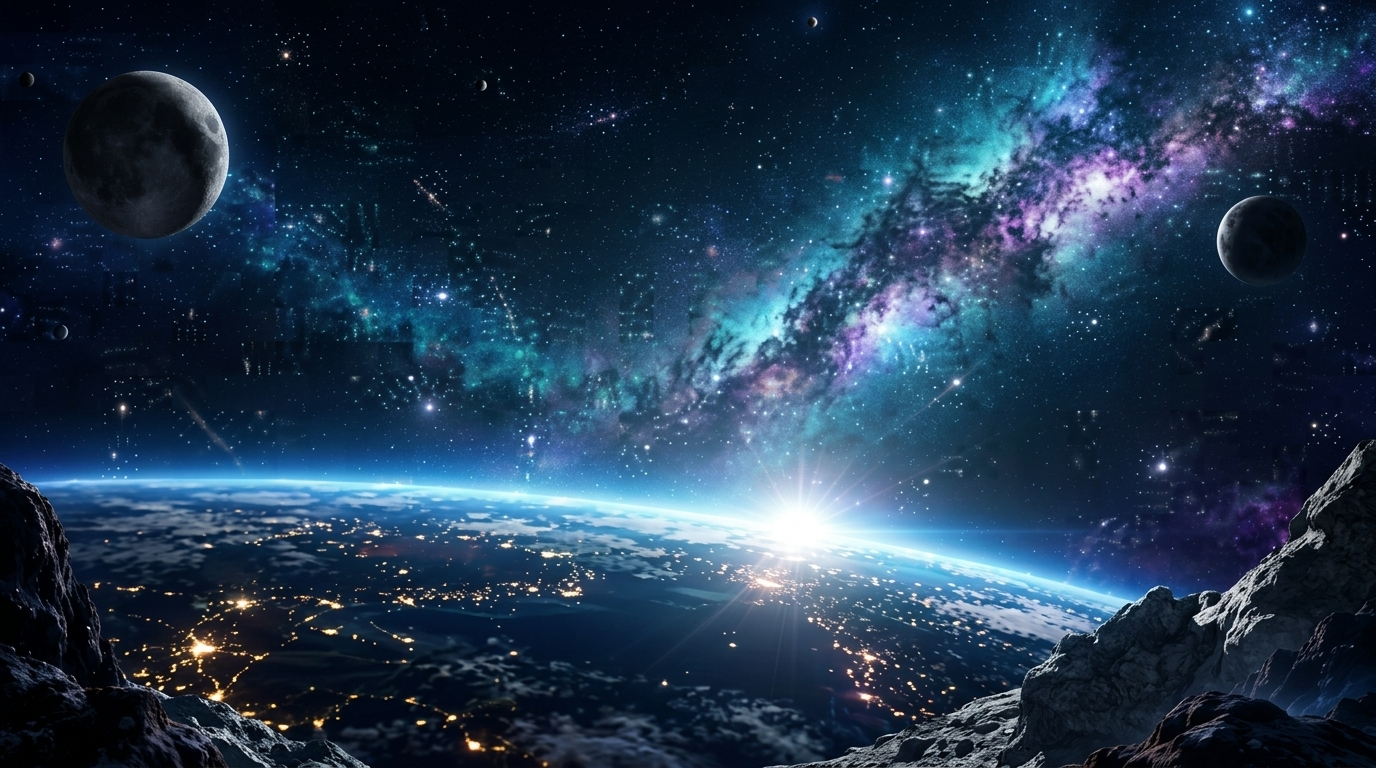
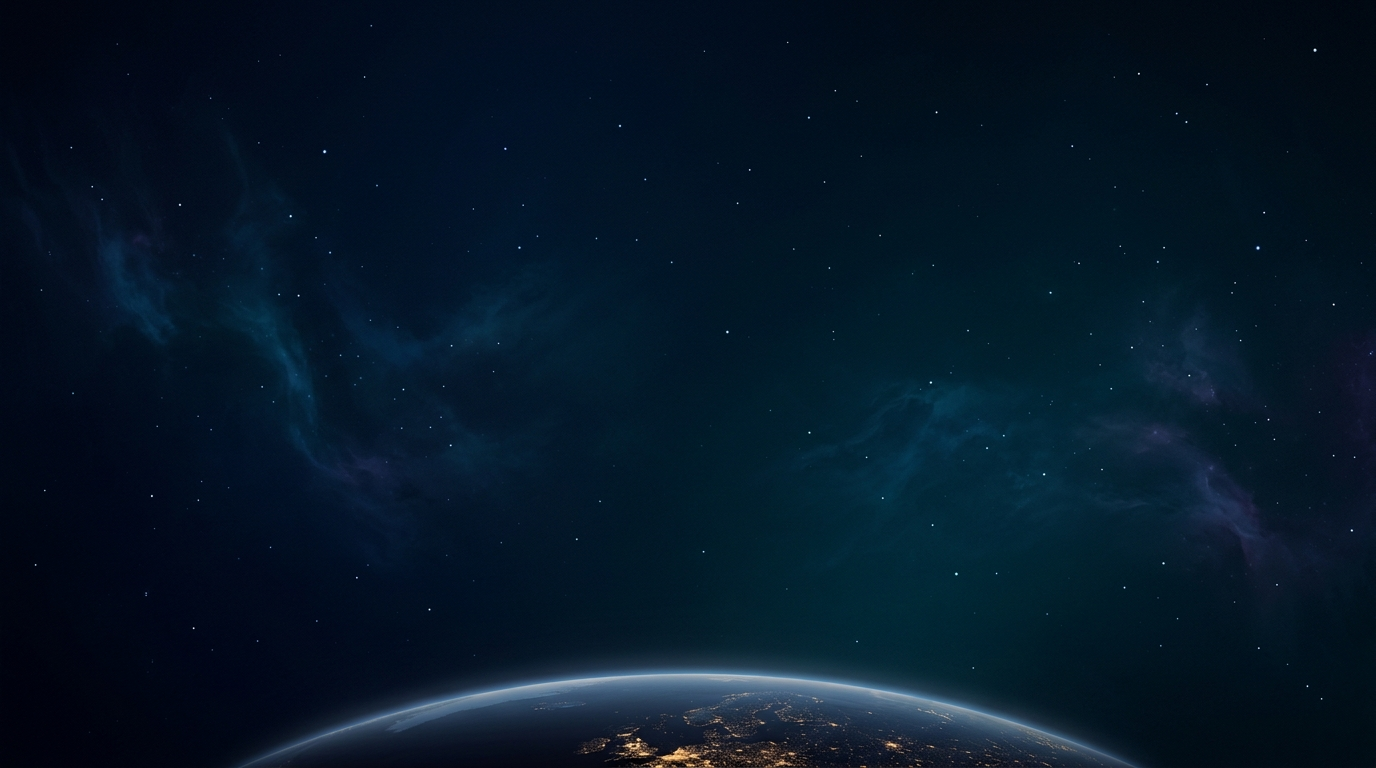
fix: restore model texture and retain cursor fixes

diff --git a/public/knowledge_globe.html b/public/knowledge_globe.html
@@ -16,12 +16,12 @@ html,body{height:100%;margin:0;background:transparent;overflow:hidden;font-famil
 #ui,#lines{position:absolute;inset:0;width:100%;height:100%;pointer-events:none}
 #lines path{fill:none;stroke-width:1.2;stroke-opacity:.5;transition:stroke-opacity .25s,stroke-width .25s}
 #lines circle{filter:drop-shadow(0 0 5px currentColor)}
-.a{position:absolute;transform:translate(-50%,-50%);opacity:0;transition:opacity .9s ease var(--d,0s)}.on .a{opacity:1}
+.a{position:absolute;transform:translate(-50%,-50%);opacity:0;transition:opacity .9s ease var(--d,0s);pointer-events:none}.on .a{opacity:1}
 .f{animation:fl 7s ease-in-out infinite}@keyframes fl{50%{transform:translateY(-4px)}}
 .pill,.card{pointer-events:auto;cursor:pointer;transition:transform .3s cubic-bezier(.2,.8,.2,1),box-shadow .3s,border-color .3s}
 .pill{display:flex;align-items:center;gap:6px;height:28px;padding:0 12px 0 10px;border-radius:999px;border:1px solid color-mix(in srgb,var(--c) 75%,transparent);background:linear-gradient(180deg,rgba(18,28,62,.82),rgba(7,12,32,.88));backdrop-filter:blur(10px);font-weight:600;font-size:10px;letter-spacing:.06em;text-transform:uppercase;white-space:nowrap;box-shadow:inset 0 1px 0 rgba(255,255,255,.08),0 8px 24px rgba(0,0,0,.45),0 0 22px color-mix(in srgb,var(--c) 30%,transparent)}
 .pill svg{width:14px;height:14px;fill:none;stroke:var(--c);stroke-width:1.8;stroke-linecap:round;stroke-linejoin:round;flex:none}
-.pill:hover{transform:translateY(-2px) scale(1.05);box-shadow:inset 0 1px 0 rgba(255,255,255,.12),0 10px 30px rgba(0,0,0,.5),0 0 34px color-mix(in srgb,var(--c) 60%,transparent)}
+.pill:hover{transform:scale(1.05);box-shadow:inset 0 1px 0 rgba(255,255,255,.12),0 10px 30px rgba(0,0,0,.5),0 0 34px color-mix(in srgb,var(--c) 60%,transparent)}
 .cnt{display:flex;align-items:center;justify-content:center;gap:7px;margin-top:7px;font:500 13px var(--mono);color:#c4d7f5}
 .cnt b{width:7px;height:7px;border-radius:50%;background:var(--c);box-shadow:0 0 8px var(--c)}
 .card{width:130px;padding:6px 8px 8px;border-radius:10px;background:linear-gradient(145deg,rgba(22,38,84,.58),rgba(8,14,38,.62));backdrop-filter:blur(12px);border:1px solid rgba(140,190,255,.2);box-shadow:inset 0 1px 0 rgba(255,255,255,.08),0 14px 40px rgba(0,0,0,.5)}
@@ -135,40 +135,12 @@ const earth=new THREE.Mesh(new THREE.SphereGeometry(R,160,160),new THREE.MeshBas
     pGeo.setAttribute('color', new THREE.Float32BufferAttribute(pColors, 3));
     pGeo.setAttribute('size', new THREE.Float32BufferAttribute(pSizes, 1));
 
-    const dotTex = (function(){
-        const cvs = document.createElement('canvas'); cvs.width = 64; cvs.height = 64;
-        const ctx = cvs.getContext('2d');
-        const grad = ctx.createRadialGradient(32,32,0, 32,32,32);
-        grad.addColorStop(0, 'rgba(255,255,255,1)');
-        grad.addColorStop(0.2, 'rgba(255,255,255,0.8)');
-        grad.addColorStop(0.5, 'rgba(255,255,255,0.2)');
-        grad.addColorStop(1, 'rgba(0,0,0,0)');
-        ctx.fillStyle = grad; ctx.fillRect(0,0,64,64);
-        return new THREE.CanvasTexture(cvs);
-    })();
-
-    const pMat = new THREE.ShaderMaterial({
-        uniforms: { tDiffuse: { value: dotTex }, time: UN.time },
-        transparent: true, blending: THREE.AdditiveBlending, depthWrite: false,
-        vertexShader: `
-            attribute float size; attribute vec3 color; varying vec3 vColor; uniform float time; varying float vDepth;
-            void main() {
-                vColor = color;
-                float pulse = sin(position.x*4. + time*3.)*0.5 + 0.5;
-                vec4 mvPos = modelViewMatrix * vec4(position, 1.0);
-                vDepth = -mvPos.z;
-                gl_PointSize = (12.0 * size + pulse * 6.0) * (5.0 / max(vDepth, 0.1));
-                gl_Position = projectionMatrix * mvPos;
-            }
-        `,
-        fragmentShader: `
-            uniform sampler2D tDiffuse; varying vec3 vColor; varying float vDepth;
-            void main() {
-                vec4 tex = texture2D(tDiffuse, gl_PointCoord);
-                float depthMult = smoothstep(12.0, 3.0, vDepth) * 0.7 + 0.3;
-                gl_FragColor = vec4(vColor * tex.rgb * depthMult, tex.a * depthMult);
-            }
-        `
+    const pMat = new THREE.PointsMaterial({
+        size: 1.8,
+        vertexColors: true,
+        transparent: true,
+        blending: THREE.AdditiveBlending,
+        depthWrite: false
     });
     const hubs = new THREE.Points(pGeo, pMat); hubs.renderOrder = 5; globe.add(hubs);
 
@@ -299,7 +271,7 @@ function layout(){const w=W(),h=H();renderer.setSize(w,h);cam.aspect=w/h;Rpx=Mat
 addEventListener('resize',layout);layout();setTimeout(()=>stage.classList.add('on'),80);
 stage.addEventListener('pointerdown',e=>{if(e.target.closest('.pill,.card'))return;drag=true;lx=e.clientX;ly=e.clientY;});
 addEventListener('pointerup',()=>drag=false);
-stage.addEventListener('pointermove',e=>{if(drag){const dx=e.clientX-lx,dy=e.clientY-ly;globe.rotation.y=Math.max(-0.6,Math.min(0.6,globe.rotation.y+dx*.006));globe.rotation.x=Math.max(-.9,Math.min(.9,globe.rotation.x+dy*.006));vyaw=dx*.0045;lx=e.clientX;ly=e.clientY;}else{tx=e.clientX/W()*2-1;ty=e.clientY/H()*2-1;}});
+stage.addEventListener('pointermove',e=>{if(drag){const dx=e.clientX-lx,dy=e.clientY-ly;globe.rotation.y=Math.max(-0.35,Math.min(0.35,globe.rotation.y+dx*.005));globe.rotation.x=Math.max(-.5,Math.min(.5,globe.rotation.x+dy*.005));vyaw=dx*.0045;lx=e.clientX;ly=e.clientY;}else{tx=e.clientX/W()*2-1;ty=e.clientY/H()*2-1;}});
 // stage.addEventListener('wheel',e=>{e.preventDefault();zt=Math.max(.8,Math.min(1.5,zt-e.deltaY*.001));},{passive:false});
 (function loop(){requestAnimationFrame(loop);if(!reduce)t+=.016;UN.time.value=t;
  if(!drag){vyaw*=0.95;let tY=tx*0.2+Math.sin(t*0.3)*0.25;globe.rotation.y+=vyaw+(tY-globe.rotation.y)*0.04;let tX=ty*0.15;globe.rotation.x+=(tX-globe.rotation.x)*0.04;globe.rotation.z=Math.sin(t*0.2)*0.06;}
